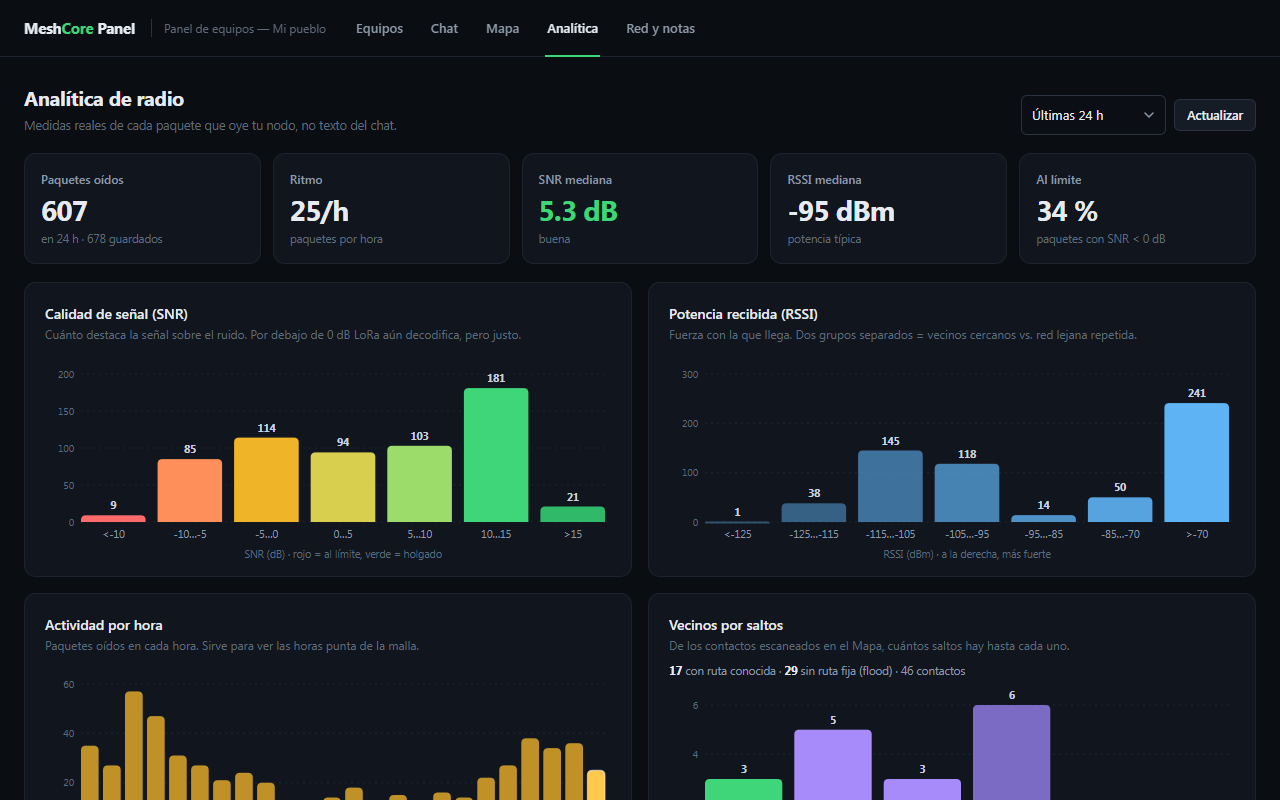
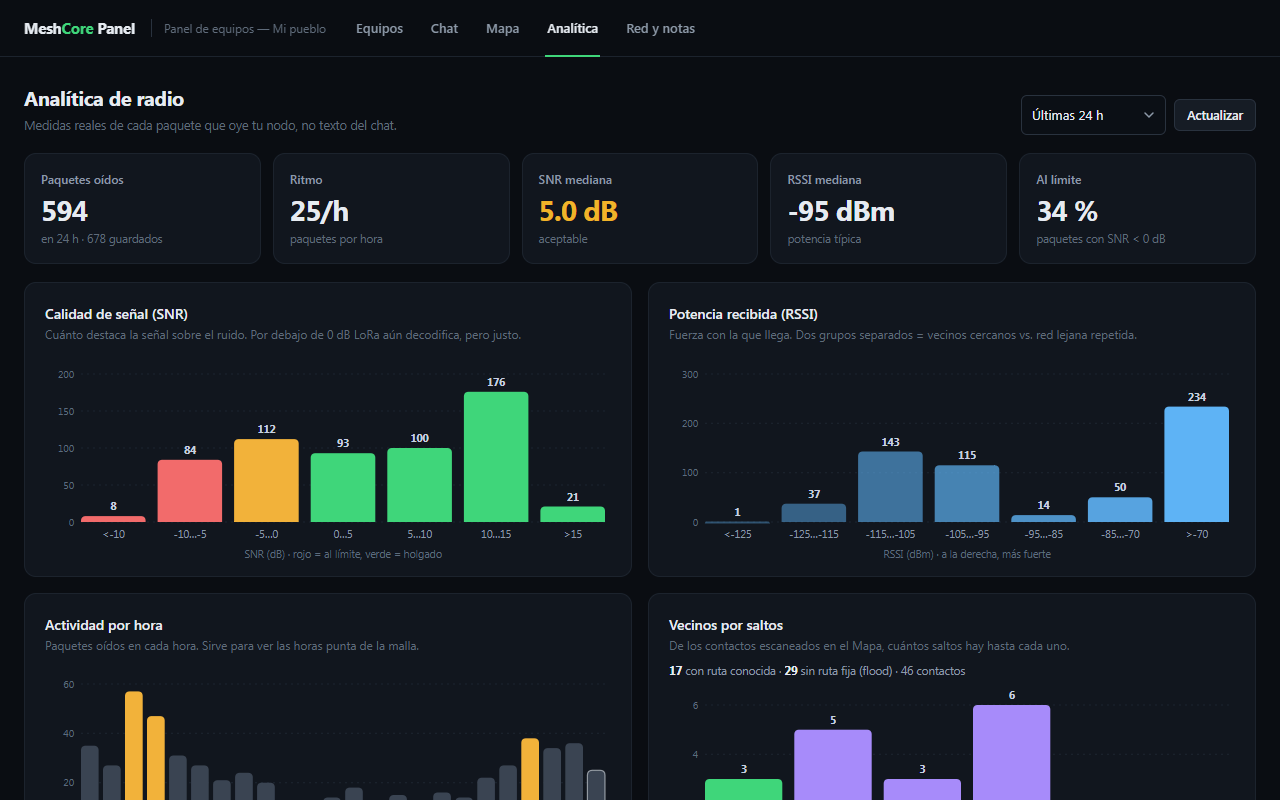
v1.2.0: chat sin elegir WIO y analítica más clara

diff --git a/dashboard.html b/dashboard.html
@@ -889,7 +889,7 @@ footer{color:var(--dim2)}
         <div class="msg sys">Conecta un WIO (pestaña Equipos) para leer y enviar mensajes.</div>
       </div>
       <div class="chatComposer">
-        <select id="chatNode" title="El chat siempre muestra los mensajes de ambos WIO; esto solo elige por cuál se envía">
+        <select id="chatNode" hidden title="El chat siempre muestra los mensajes de ambos WIO; esto solo elige por cuál se envía">
           <option value="1">WIO1</option>
           <option value="2" selected>WIO2</option>
         </select>
@@ -1261,7 +1261,7 @@ const CFG=Object.assign({
 }, window.PANEL_CONFIG||{});
 const REPEATER_POS=[CFG.repetidor.lat, CFG.repetidor.lon];
 const REP_NOMBRE=CFG.repetidor.nombre;
-const PANEL_VERSION='1.1.4';
+const PANEL_VERSION='1.2.0';
 $('#panelVersion').textContent='v'+PANEL_VERSION;
 // Sin config.js propio el panel funciona, pero con nombres de ejemplo que no
 // cuadran con ninguna radio: avisarlo para que no parezca un fallo.
@@ -2724,7 +2724,7 @@ async function renderStats(){
     if(v<-10) snrB[0].n++; else if(v<-5) snrB[1].n++; else if(v<0) snrB[2].n++;
     else if(v<5) snrB[3].n++; else if(v<10) snrB[4].n++; else if(v<15) snrB[5].n++; else snrB[6].n++;
   }
-  statBars('#snrChart',snrB,{vacio,color:(b,i)=>COL_SNR[i],unidad:'dB',eje:'SNR (dB) · rojo = al límite, verde = holgado'});
+  statBars('#snrChart',snrB,{vacio,color:(b,i)=>i<2?'#f26b6b':i<3?'#f2b23a':'#3fd67a',unidad:'dB',eje:'SNR (dB) · rojo = al límite, verde = holgado'});
 
   // RSSI: mas fuerte = azul mas intenso
   const rssiB=[{label:'<-125',n:0},{label:'-125…-115',n:0},{label:'-115…-105',n:0},{label:'-105…-95',n:0},
@@ -2749,7 +2749,8 @@ async function renderStats(){
       if(m.at>=actB[i]._ini){ actB[i].n++; break; }
     }
   }
-  statBars('#actChart',actB,{vacio,color:b=>b.actual?'#ffc94d':'rgba(240,180,41,.78)',unidad:'',eje:'hora del día (la resaltada es la actual)',rotulo:40});
+  const top=actB.map(b=>b.n).sort((a,b)=>b-a)[2]||1;
+  statBars('#actChart',actB,{vacio,color:b=>b.n>=top&&b.n>0?'#f2b23a':'#3a4452',unidad:'',eje:'hora del día · en ámbar, las 3 horas con más tráfico',rotulo:40});
 
   // Saltos de vecinos. "flood" va aparte: suele ser la mayoria y aplastaba el resto.
   const hopsB=[{label:'directo',n:0},{label:'1 salto',n:0},{label:'2',n:0},{label:'3',n:0},
@@ -2765,7 +2766,7 @@ async function renderStats(){
       else hopsB[h].n++;
     }
   }
-  statBars('#hopsChart',hopsB,{color:(b,i)=>i===0?'#3fd67a':i<3?'#a78bfa':'#7c6bc4',unidad:'',eje:'saltos hasta el nodo'});
+  statBars('#hopsChart',hopsB,{color:(b,i)=>i===0?'#3fd67a':'#a78bfa',unidad:'',eje:'saltos hasta el nodo'});
   const extra=$('#hopsExtra');
   if(extra) extra.innerHTML=conocidos
     ? '<b>'+(conocidos-flood)+'</b> con ruta conocida · <b>'+flood+'</b> sin ruta fija (flood) · '+conocidos+' contactos'
@@ -2951,9 +2952,11 @@ $('#chatInput').addEventListener('input',()=>{
   }
 })();
 function activeChatNode(){
-  const idx=+$('#chatNode').value;
-  const n=wNodes[idx];
-  return (n && n.device && n.device.gatt.connected) ? n : null;
+  // Envía por el WIO elegido si está conectado; si no, por el que lo esté.
+  const ok=i=>wNodes[i]&&wNodes[i].device&&wNodes[i].device.gatt.connected;
+  const sel=+$('#chatNode').value;
+  const idx=ok(sel)?sel:ok(2)?2:ok(1)?1:0;
+  return idx?wNodes[idx]:null;
 }
 function refreshChatUI(){
   const n=activeChatNode();

diff --git a/bridge/meshcore_ble_gateway_v3.py b/bridge/meshcore_ble_gateway_v3.py
@@ -90,7 +90,7 @@ def politica_cli(cmd: str, confirmed: bool):
         return 409, f'CONFIRMAR: {info.cli} - {info.note or info.label}'
     return None
 
-PANEL_VERSION = '1.1.4'
+PANEL_VERSION = '1.2.0'
 PORT = int(os.getenv('MESHCORE_BLE_GATEWAY_PORT', '8780'))
 # 0.0.0.0 por defecto porque el relay del PC entra por la LAN. Si el relay
 # corre en la propia Pi, MESHCORE_BIND=127.0.0.1 deja el puerto solo para nginx.

diff --git a/CHANGELOG.md b/CHANGELOG.md
@@ -3,6 +3,14 @@
 Formato basado en [Keep a Changelog](https://keepachangelog.com/es-ES/1.1.0/) y versiones
 según [SemVer](https://semver.org/lang/es/).
 
+## [1.2.0] - 2026-10-17
+
+### Cambiado
+- Chat: se envía por el WIO que esté conectado, sin tener que elegirlo;
+  en el compositor solo queda el canal.
+- Analítica: menos colores. SNR en rojo/ámbar/verde, actividad en gris con
+  las 3 horas de más tráfico en ámbar, saltos en dos tonos.
+
 ## [1.1.4] - 2026-10-17
 
 ### Cambiado
